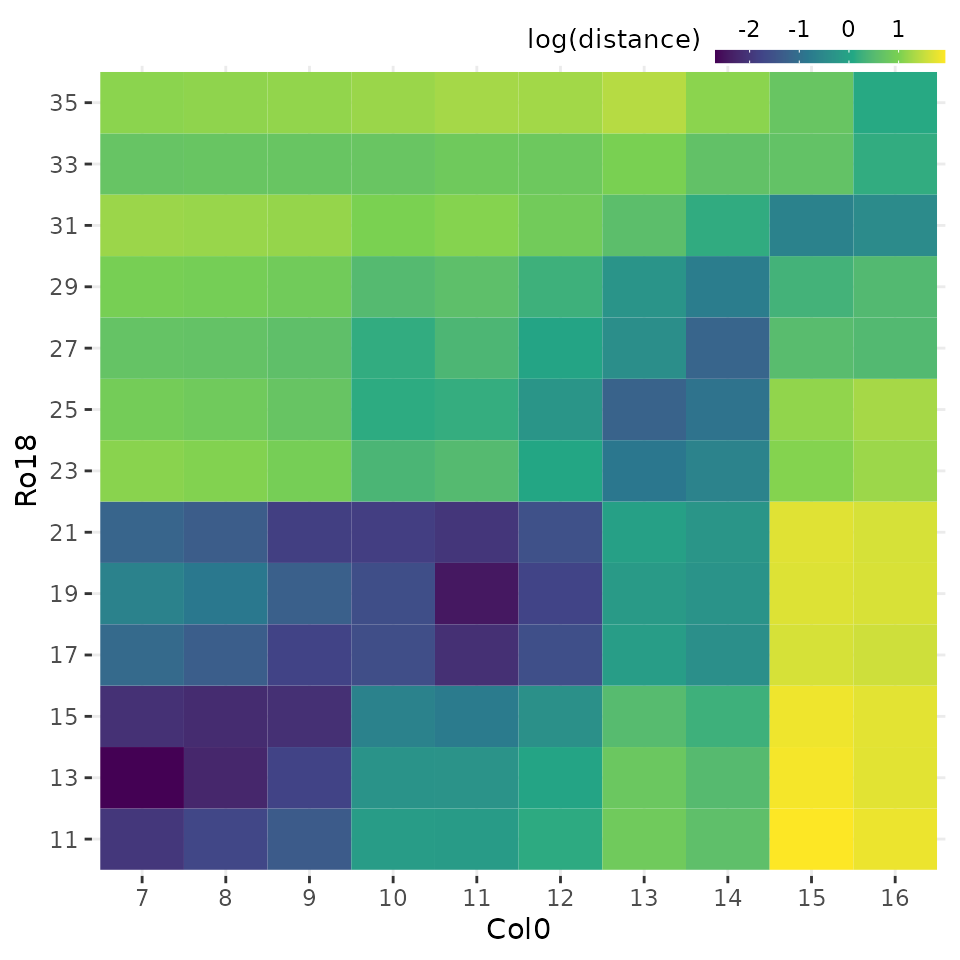
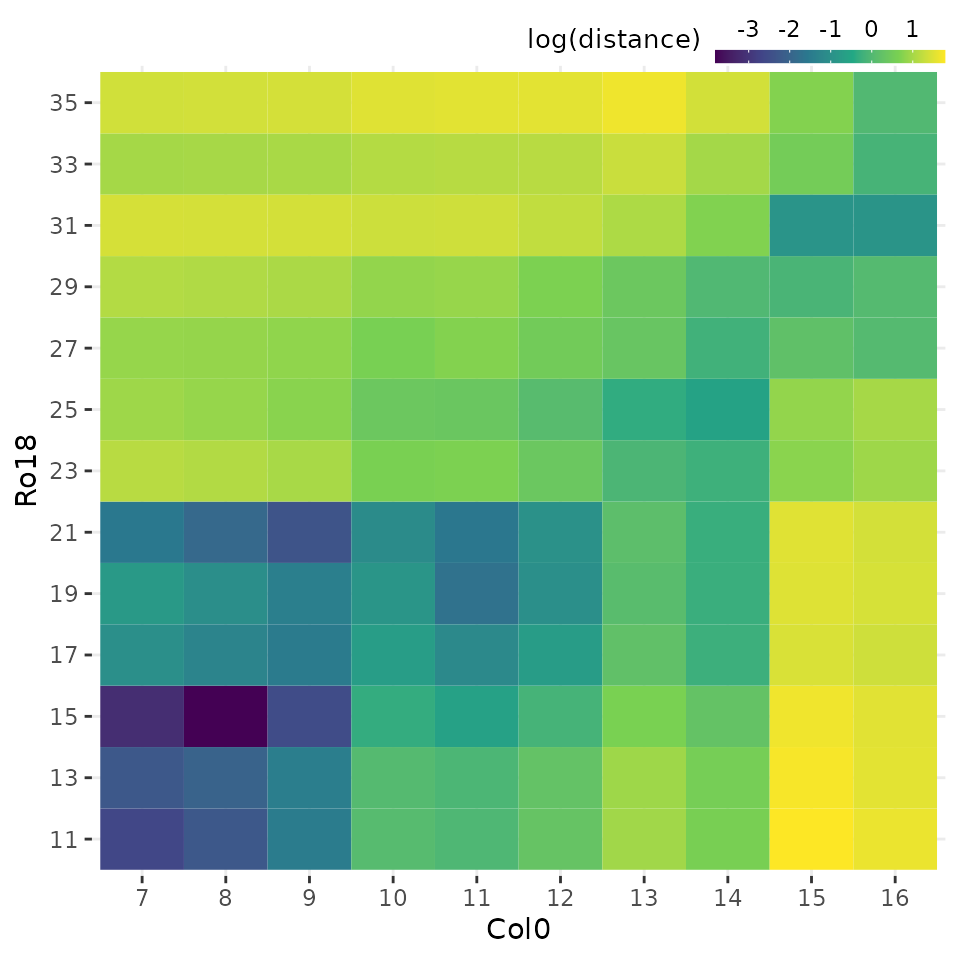
Deploying to gh-pages from @ ruthkr/greatR@399577e9075f0b736e966fae836fd36e3b945471 🚀

diff --git a/articles/register-data.html b/articles/register-data.html
@@ -232,11 +232,13 @@ shift search space is automatically estimated.</p>
 <span>  reference <span class="op">=</span> <span class="st">"Ro18"</span>,</span>
 <span>  query <span class="op">=</span> <span class="st">"Col0"</span></span>
 <span><span class="op">)</span></span>
+<span><span class="co">#&gt; ── Validating input data ────────────────────────────────────────────────────────</span></span>
 <span><span class="co">#&gt; ℹ Will process 10 genes.</span></span>
-<span><span class="co">#&gt;</span></span>
+<span><span class="co">#&gt; </span></span>
 <span><span class="co">#&gt; ── Starting registration with optimisation ──────────────────────────────────────</span></span>
+<span><span class="co">#&gt; ℹ Using Nelder-Mead method.</span></span>
 <span><span class="co">#&gt; ℹ Using computed stretches and shifts search space limits.</span></span>
-<span><span class="co">#&gt; ✔ Optimising registration parameters for genes (10/10) [5m 14.8s]</span></span></code></pre></div>
+<span><span class="co">#&gt; ✔ Optimising registration parameters for genes (10/10) [2.3s]</span></span></code></pre></div>
 </div>
 <div class="section level2">
 <h2 id="getting-the-registration-results">Getting the registration results<a class="anchor" aria-label="anchor" href="#getting-the-registration-results"></a>
@@ -264,12 +266,12 @@ from the registration result.</p>
 <span>  <span class="fu">knitr</span><span class="fu">::</span><span class="fu"><a href="https://rdrr.io/pkg/knitr/man/kable.html" class="external-link">kable</a></span><span class="op">(</span><span class="op">)</span></span></code></pre></div>
 <table class="table">
 <colgroup>
-<col width="24%">
-<col width="18%">
-<col width="18%">
+<col width="22%">
+<col width="17%">
+<col width="17%">
 <col width="12%">
-<col width="10%">
-<col width="15%">
+<col width="14%">
+<col width="14%">
 </colgroup>
 <thead><tr class="header">
 <th align="left">gene_id</th>
@@ -282,82 +284,82 @@ from the registration result.</p>
 <tbody>
 <tr class="odd">
 <td align="left">BRAA02G018970.3C</td>
-<td align="right">63.32350</td>
-<td align="right">51.13880</td>
-<td align="right">3.976667</td>
-<td align="right">-10.43</td>
+<td align="right">48.03687</td>
+<td align="right">40.36121</td>
+<td align="right">3.973246</td>
+<td align="right">-15.047106</td>
 <td align="left">TRUE</td>
 </tr>
 <tr class="even">
 <td align="left">BRAA02G043220.3C</td>
-<td align="right">75.26585</td>
-<td align="right">60.18643</td>
-<td align="right">2.586667</td>
-<td align="right">-2.35</td>
+<td align="right">59.00165</td>
+<td align="right">50.88363</td>
+<td align="right">3.826033</td>
+<td align="right">-11.495610</td>
 <td align="left">TRUE</td>
 </tr>
 <tr class="odd">
 <td align="left">BRAA03G023790.3C</td>
-<td align="right">67.93601</td>
-<td align="right">52.34351</td>
-<td align="right">2.246667</td>
-<td align="right">4.10</td>
+<td align="right">52.95771</td>
+<td align="right">45.92210</td>
+<td align="right">1.664500</td>
+<td align="right">8.463653</td>
 <td align="left">TRUE</td>
 </tr>
 <tr class="even">
 <td align="left">BRAA03G051930.3C</td>
-<td align="right">71.61795</td>
-<td align="right">54.99435</td>
-<td align="right">2.766667</td>
-<td align="right">3.62</td>
+<td align="right">54.83773</td>
+<td align="right">47.03630</td>
+<td align="right">2.349747</td>
+<td align="right">5.664320</td>
 <td align="left">TRUE</td>
 </tr>
 <tr class="odd">
 <td align="left">BRAA04G005470.3C</td>
-<td align="right">56.39401</td>
-<td align="right">38.74852</td>
-<td align="right">3.996667</td>
-<td align="right">-6.07</td>
+<td align="right">41.20168</td>
+<td align="right">32.84564</td>
+<td align="right">3.298411</td>
+<td align="right">-2.561531</td>
 <td align="left">TRUE</td>
 </tr>
 <tr class="even">
 <td align="left">BRAA05G005370.3C</td>
-<td align="right">67.02293</td>
-<td align="right">51.40222</td>
-<td align="right">2.276667</td>
-<td align="right">3.72</td>
+<td align="right">52.01824</td>
+<td align="right">44.35298</td>
+<td align="right">1.876649</td>
+<td align="right">6.580776</td>
 <td align="left">TRUE</td>
 </tr>
 <tr class="odd">
 <td align="left">BRAA06G025360.3C</td>
-<td align="right">73.04597</td>
-<td align="right">56.89470</td>
-<td align="right">1.696667</td>
-<td align="right">5.57</td>
+<td align="right">57.69557</td>
+<td align="right">48.83989</td>
+<td align="right">3.170889</td>
+<td align="right">-5.140066</td>
 <td align="left">TRUE</td>
 </tr>
 <tr class="even">
 <td align="left">BRAA07G030470.3C</td>
-<td align="right">57.90358</td>
-<td align="right">42.55243</td>
-<td align="right">3.996667</td>
-<td align="right">-8.10</td>
+<td align="right">42.17333</td>
+<td align="right">34.12138</td>
+<td align="right">3.999999</td>
+<td align="right">-9.495934</td>
 <td align="left">TRUE</td>
 </tr>
 <tr class="odd">
 <td align="left">BRAA07G034100.3C</td>
-<td align="right">57.33534</td>
-<td align="right">42.89697</td>
-<td align="right">3.996667</td>
-<td align="right">-8.38</td>
+<td align="right">41.83850</td>
+<td align="right">33.84178</td>
+<td align="right">3.999999</td>
+<td align="right">-10.460581</td>
 <td align="left">TRUE</td>
 </tr>
 <tr class="even">
 <td align="left">BRAA09G045310.3C</td>
-<td align="right">58.20512</td>
-<td align="right">40.05112</td>
-<td align="right">3.986667</td>
-<td align="right">-5.92</td>
+<td align="right">43.44362</td>
+<td align="right">35.07316</td>
+<td align="right">3.159727</td>
+<td align="right">-1.205799</td>
 <td align="left">TRUE</td>
 </tr>
 </tbody>

diff --git a/articles/register-data-manually.html b/articles/register-data-manually.html
@@ -146,10 +146,11 @@ registration process as follows:</p>
 <span>  shifts <span class="op">=</span> <span class="fl">4</span>,</span>
 <span>  optimise_registration_parameters <span class="op">=</span> <span class="cn">FALSE</span></span>
 <span><span class="op">)</span></span>
+<span><span class="co">#&gt; ── Validating input data ───────────────────────────────────────────────────────</span></span>
 <span><span class="co">#&gt; ℹ Will process 1 gene.</span></span>
 <span><span class="co">#&gt;</span></span>
 <span><span class="co">#&gt; ── Starting manual registration ────────────────────────────────────────────────</span></span>
-<span><span class="co">#&gt; ✔ Applying registration for genes (1/1) [58ms]</span></span></code></pre></div>
+<span><span class="co">#&gt; ✔ Applying registration for genes (1/1) [29ms]</span></span></code></pre></div>
 <p>To check whether the gene is registered or not, we can get the
 summary results by accessing the <code>model_comparison</code> table
 from the registration result.</p>
@@ -202,10 +203,11 @@ disable the automated optimisation process.</p>
 <span>  shifts <span class="op">=</span> <span class="fu"><a href="https://rdrr.io/r/base/seq.html" class="external-link">seq</a></span><span class="op">(</span><span class="fl">0</span>, <span class="fl">4</span>, <span class="fl">0.1</span><span class="op">)</span>,</span>
 <span>  optimise_registration_parameters <span class="op">=</span> <span class="cn">FALSE</span></span>
 <span><span class="op">)</span></span>
+<span><span class="co">#&gt; ── Validating input data ───────────────────────────────────────────────────────</span></span>
 <span><span class="co">#&gt; ℹ Will process 10 genes.</span></span>
 <span><span class="co">#&gt;</span></span>
 <span><span class="co">#&gt; ── Starting manual registration ────────────────────────────────────────────────</span></span>
-<span><span class="co">#&gt; ✔ Applying registration for genes (10/10) [42.9s]</span></span></code></pre></div>
+<span><span class="co">#&gt; ✔ Applying registration for genes (10/10) [15.8s]</span></span></code></pre></div>
 <p>The same as previous registration process, users can analyse further
 the registration result by following <a href="https://ruthkr.github.io/greatR/articles/visualise-results.html">visualising
 results</a> vignette.</p>

diff --git a/index.html b/index.html
@@ -135,11 +135,13 @@
 <span>  reference <span class="op">=</span> <span class="st">"Ro18"</span>,</span>
 <span>  query <span class="op">=</span> <span class="st">"Col0"</span></span>
 <span><span class="op">)</span></span>
+<span><span class="co">#&gt; ── Validating input data ────────────────────────────────────────────────────────</span></span>
 <span><span class="co">#&gt; ℹ Will process 10 genes.</span></span>
-<span><span class="co">#&gt;</span></span>
+<span><span class="co">#&gt; </span></span>
 <span><span class="co">#&gt; ── Starting registration with optimisation ──────────────────────────────────────</span></span>
+<span><span class="co">#&gt; ℹ Using Nelder-Mead method.</span></span>
 <span><span class="co">#&gt; ℹ Using computed stretches and shifts search space limits.</span></span>
-<span><span class="co">#&gt; ✔ Optimising registration parameters for genes (10/10) [5m 14.8s]</span></span></code></pre></div>
+<span><span class="co">#&gt; ✔ Optimising registration parameters for genes (10/10) [2.3s]</span></span></code></pre></div>
 </div>
 <div class="section level2">
 <h2 id="reference">Reference<a class="anchor" aria-label="anchor" href="#reference"></a>

diff --git a/articles/visualise-results.html b/articles/visualise-results.html
@@ -147,11 +147,11 @@ accessions or IDs.</li>
 </tr>
 <tr class="even">
 <td align="left">Stretch</td>
-<td align="left">[1.7, 4]</td>
+<td align="left">[1.66, 4]</td>
 </tr>
 <tr class="odd">
 <td align="left">Shift</td>
-<td align="left">[-10.43, 5.57]</td>
+<td align="left">[-15.05, 8.46]</td>
 </tr>
 </tbody>
 </table>
